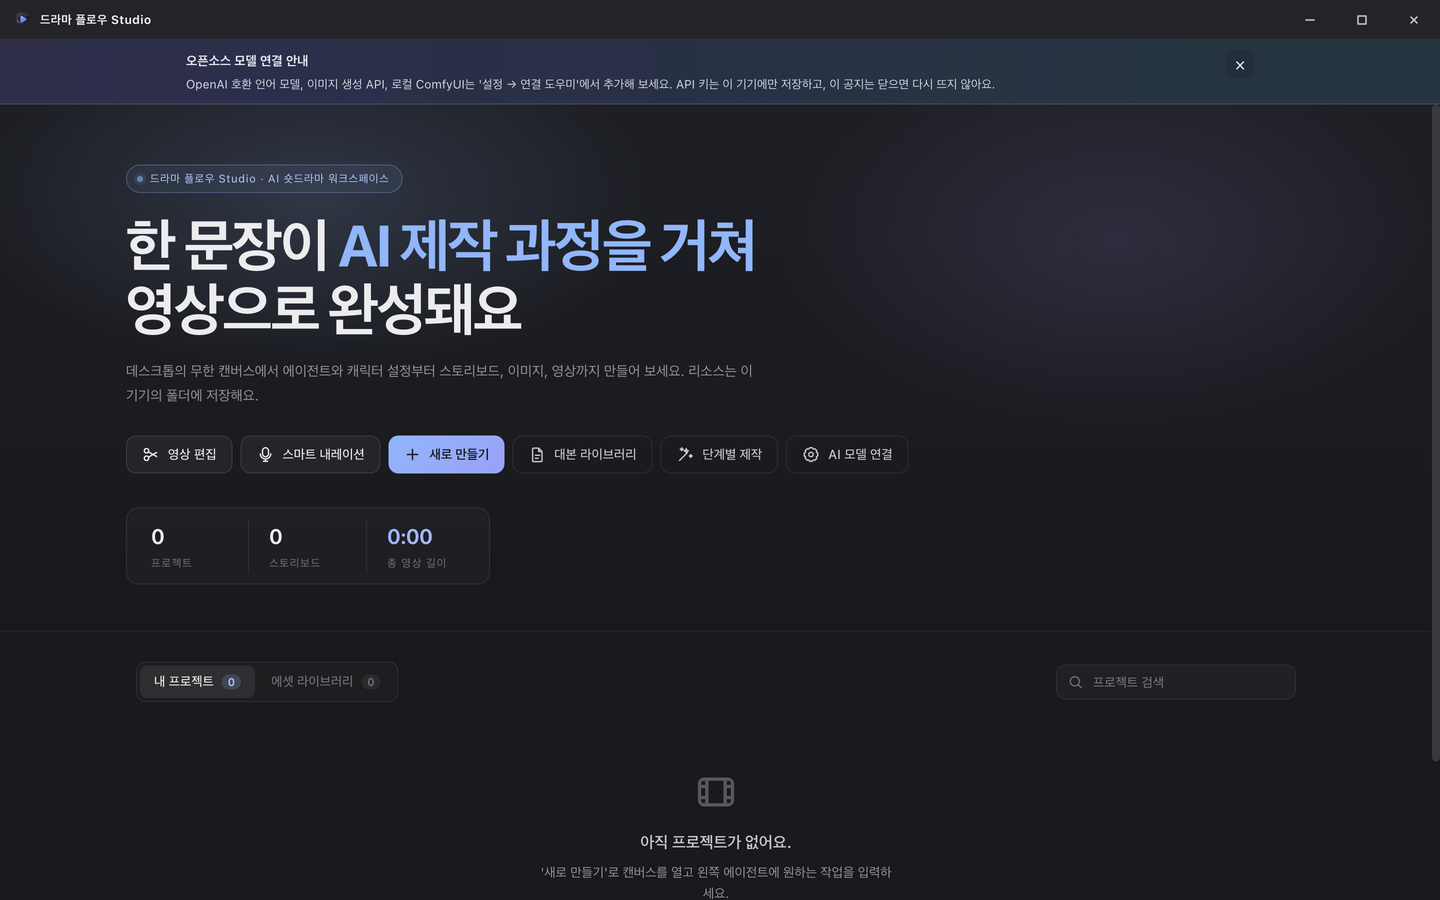
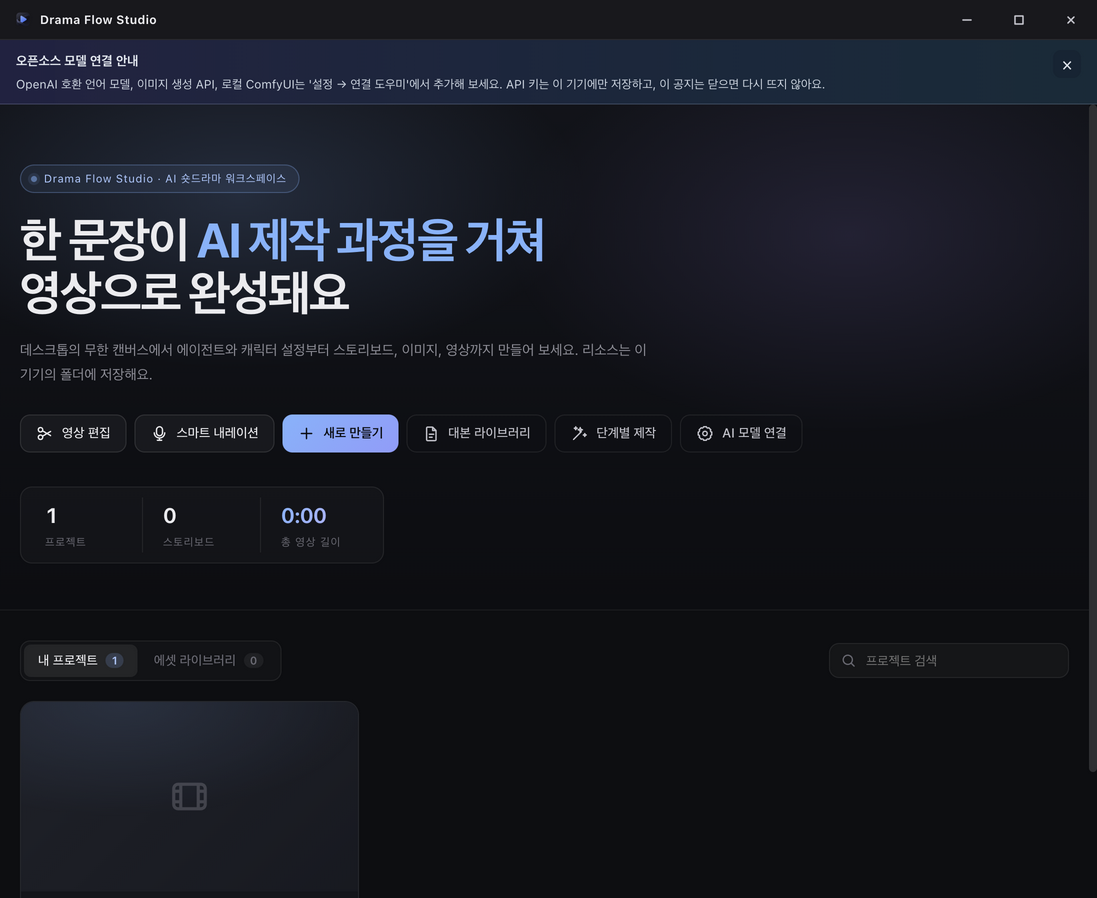
한국어판 표시 이름을 Drama Flow Studio로 통일

diff --git a/src/locales/ko.ts b/src/locales/ko.ts
@@ -375,9 +375,9 @@ export default {
     "addVideo": "영상 추가",
     "agent": "에이전트",
     "ambientSound": "환경음",
-    "appDescription": "드라마 플로우 Studio — 대본부터 영상까지, 캔버스에서 스토리보드와 이미지 제작 및 합성",
+    "appDescription": "Drama Flow Studio — 대본부터 영상까지, 캔버스에서 스토리보드와 이미지 제작 및 합성",
     "applyConfig": "설정 적용",
-    "appName": "드라마 플로우 Studio",
+    "appName": "Drama Flow Studio",
     "aspectRatio": "비율",
     "assetLibrary": "에셋 라이브러리",
     "assetPickerShort": "라이브러리",
@@ -1006,7 +1006,7 @@ export default {
     "dramaMode": "AI 숏드라마 ·",
     "freeEdit": "자유 편집",
     "freeEditName": "자유 편집 {p0}",
-    "heroBadge": "드라마 플로우 Studio · AI 숏드라마 워크스페이스",
+    "heroBadge": "Drama Flow Studio · AI 숏드라마 워크스페이스",
     "heroDescription": "데스크톱의 무한 캔버스에서 에이전트와 캐릭터 설정부터 스토리보드, 이미지, 영상까지 만들어 보세요. 리소스는 이 기기의 폴더에 저장해요.",
     "heroIntro": "한 문장이",
     "heroPipeline": "AI 제작 과정을 거쳐",
@@ -1751,10 +1751,10 @@ export default {
     },
     "permissions": {
       "description": "참조 이미지와 영상 소스를 선택할 때 시스템 파일 선택기를 사용해요. 시스템에서 접근을 차단한 경우 아래에서 권한을 허용하세요.",
-      "exclude": "권한을 허용하면 Windows 보안 센터의 제외 항목에 '드라마 플로우 Studio'와 소스 폴더를 추가해 주세요. 360이나 화룽을 쓴다면 신뢰 목록에 추가해 주세요.",
+      "exclude": "권한을 허용하면 Windows 보안 센터의 제외 항목에 앱 실행 파일과 소스 폴더를 추가해 주세요. 360이나 화룽을 쓴다면 신뢰 목록에 추가해 주세요.",
       "failed": "권한을 허용하지 못했어요. 360이나 화룽을 쓴다면 신뢰 목록에 이 앱을 추가해 보세요.",
       "grant": "로컬 파일 접근 허용",
-      "granted": "권한을 허용했어요. '드라마 플로우 Studio'를 완전히 닫았다가 다시 열고 참조 이미지를 올려 주세요.",
+      "granted": "권한을 허용했어요. 'Drama Flow Studio'를 완전히 닫았다가 다시 열고 참조 이미지를 올려 주세요.",
       "openFailed": "Windows 보안 센터를 열 수 없어요.",
       "openSecurity": "Windows 보안 센터 열기",
       "title": "로컬 파일 권한",

diff --git a/index.html b/index.html
@@ -4,8 +4,8 @@
     <meta charset="UTF-8" />
     <link rel="icon" type="image/png" href="/logo.png" />
     <meta name="viewport" content="width=device-width, initial-scale=1.0" />
-    <meta name="description" content="드라마 플로우 Studio — 대본부터 영상까지, 캔버스에서 스토리보드와 이미지 제작 및 합성" />
-    <title>드라마 플로우 Studio</title>
+    <meta name="description" content="Drama Flow Studio — 대본부터 영상까지, 캔버스에서 스토리보드와 이미지 제작 및 합성" />
+    <title>Drama Flow Studio</title>
   </head>
   <body>
     <div id="app"></div>

diff --git a/src/style.css b/src/style.css
@@ -1,5 +1,5 @@
 /* ============================================
-   드라마 플로우 Studio 어두운 테마
+   Drama Flow Studio 어두운 테마
    검은색에 가까운 캔버스, 회색 배경, 밝은 텍스트, 옅은 파란색 연결선
    ============================================ */
 

diff --git a/docs/처음-사용하기.md b/docs/처음-사용하기.md
@@ -1,4 +1,4 @@
-# 튜토리얼: 드라마 플로우 Studio 처음 사용하기
+# 튜토리얼: Drama Flow Studio 처음 사용하기
 
 이 글은 **어려운 용어를 파고들고 싶지 않은** 분들을 위한 글입니다. 순서대로 따라 하면 대략 다음 과정을 완료할 수 있습니다. 소프트웨어 열기 → 대화 모델 설정 → (선택 사항) 로컬 ComfyUI 연결 → 첫 이미지 생성.
 
@@ -77,7 +77,7 @@ ComfyUI에서 워크플로를 저장할 때:
 - **일반 저장** → 화면용 형식(내부에 nodes, 연결선 정보가 있는 경우가 많음) → **이 소프트웨어에서 바로 사용할 수 없음**.
 - **Save (API Format)** → API 형식(노드에 class_type이 있음) → **이것을 사용하세요**.
 
-### 드라마 플로우 Studio에 전달하는 방법
+### Drama Flow Studio에 전달하는 방법
 
 1. Comfy에서 **API Format**의 JSON을 내보내세요.
 2. 설정으로 돌아와 해당 Comfy 연동 아래의 **「Comfy 워크플로 템플릿」** 영역으로 이동하세요.

diff --git a/README.md b/README.md
@@ -1,8 +1,8 @@
-# 드라마 플로우 Studio
+# Drama Flow Studio
 
 [원본 저장소](https://github.com/JerrIsTheBesta/AI-Short-Drama-Studio)의 한국어 포크입니다.
 
-![드라마 플로우 Studio — AI 숏드라마 원클릭 생성](docs/images/github-hero-2026.png)
+![Drama Flow Studio — AI 숏드라마 원클릭 생성](docs/images/github-hero-2026.png)
 
 [![License: MIT](https://img.shields.io/badge/License-MIT-22c55e.svg)](LICENSE)
 [![Vue 3](https://img.shields.io/badge/Vue-3-42b883.svg)](https://vuejs.org/)
@@ -14,7 +14,7 @@
 
 ## 하나의 캔버스에서 전체 제작
 
-![드라마 플로우 Studio 통합 캔버스에서 에이전트와 제작 노드를 함께 보는 화면](docs/images/studio-workflow-overview.png)
+![Drama Flow Studio 통합 캔버스에서 에이전트와 제작 노드를 함께 보는 화면](docs/images/studio-workflow-overview.png)
 
 새 프로젝트를 만들면 통합 캔버스가 열려요.
 

diff --git a/CONTRIBUTING.md b/CONTRIBUTING.md
@@ -1,6 +1,6 @@
 # 기여하기
 
-드라마 플로우 Studio에 기여해 주셔서 감사합니다. 변경 사항을 제출하기 전에 변경 범위가 명확한지 확인하고, 개인 미디어 자료, API Key 또는 로컬 컴퓨터 설정이 저장소에 포함되지 않도록 해 주세요.
+Drama Flow Studio에 기여해 주셔서 감사합니다. 변경 사항을 제출하기 전에 변경 범위가 명확한지 확인하고, 개인 미디어 자료, API Key 또는 로컬 컴퓨터 설정이 저장소에 포함되지 않도록 해 주세요.
 
 ## 로컬 개발
 

diff --git a/FEATURES.md b/FEATURES.md
@@ -1,4 +1,4 @@
-# 드라마 플로우 Studio 기능 목록
+# Drama Flow Studio 기능 목록
 
 이 문서는 현재 오픈 소스 브랜치의 실제 기능에 대응합니다. 각 AI 서비스의 모델 사용 권한, 요금, 입력 제한 및 생성 품질은 서비스 제공업체가 결정합니다.
 

diff --git a/docs/i18n-glossary.md b/docs/i18n-glossary.md
@@ -1,5 +1,7 @@
 # UI 한글화 용어집
 
+원본 앱 이름의 한국어판 표기는 화면과 문서에서 **Drama Flow Studio**로 통일해요.
+
 | 한국어 UI | 영어 |
 | --- | --- |
 | 숏드라마 | short drama |
